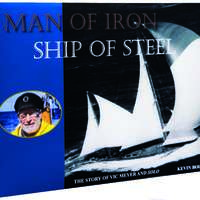
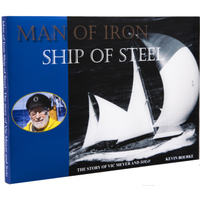
Update header, book image.

diff --git a/index.html b/index.html
@@ -40,12 +40,19 @@
         margin-bottom: 15px;
         text-align: center;
       }
+      .header div.cover-blurb {
+        position: absolute;
+        left: 870px;
+        top: 138px;
+        font-size: 1.5em;
+        width: 320px;
+        text-align: left;
+      }
       .header h1 {
         font-size: 5em;
         color: rgb(214, 214, 214);
       }
       .header p {
-        font-size: 2em;
         color: rgb(200, 200, 200);
       }
       h1.ship-of-steel {
@@ -129,6 +136,17 @@
       <div class="header container">
         <div class="cover">
           <img src="assets/images/cover.jpg" alt="Man of Iron, Ship of Steel"/>
+          <div class="cover-blurb">
+          <p>
+            Man of Iron Ship of Steel tells the story of Vic Meyer and Solo in 200 pages with over 240 colour and 
+            black and white photographs. 
+          </p>
+          <p>
+            This lovely hard-bound 
+            coffee table book (215mm x 300mm) with iconic dust cover
+            in full colour is now available directly from the author.
+          </p>
+        </div>
         </div>
       </div>
 
